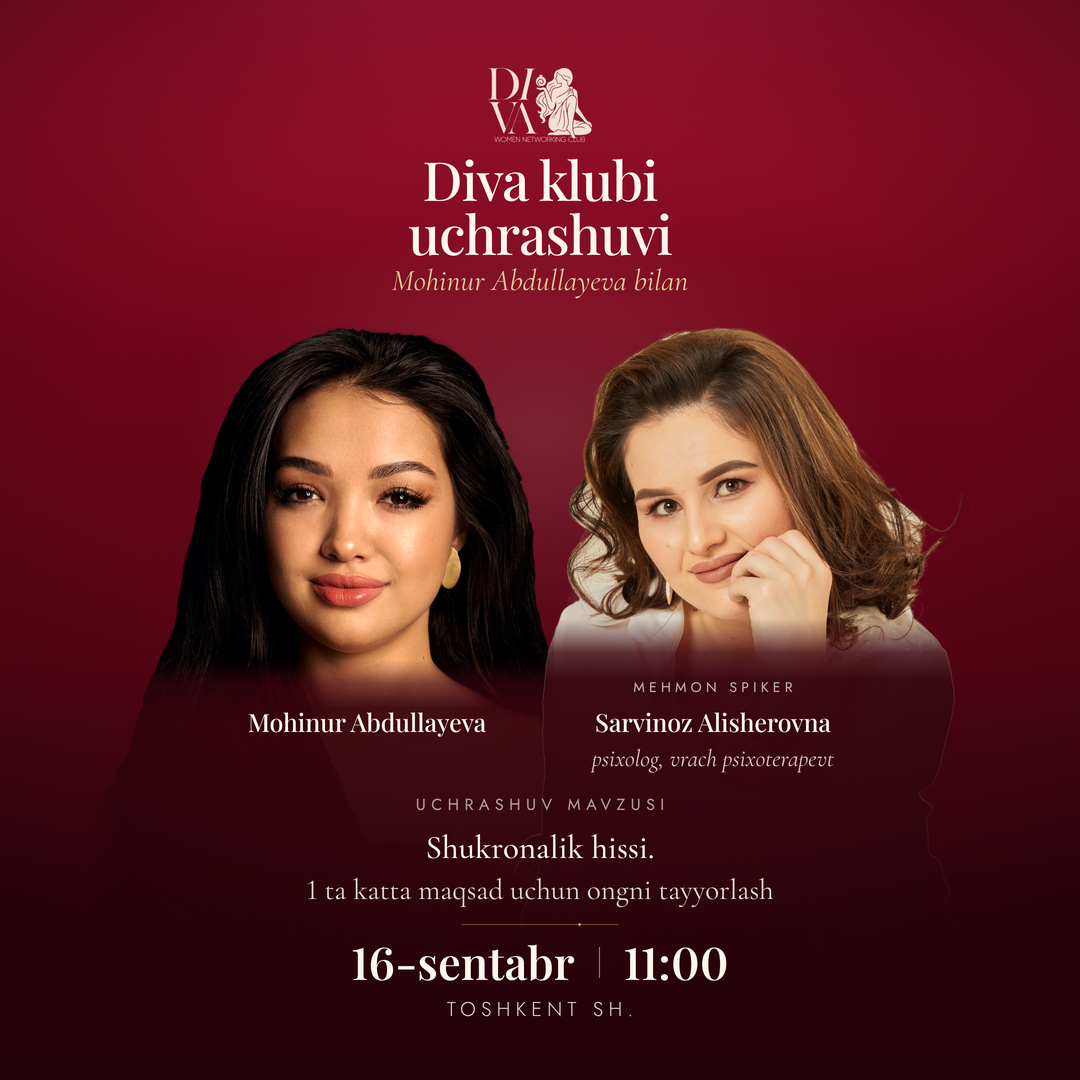
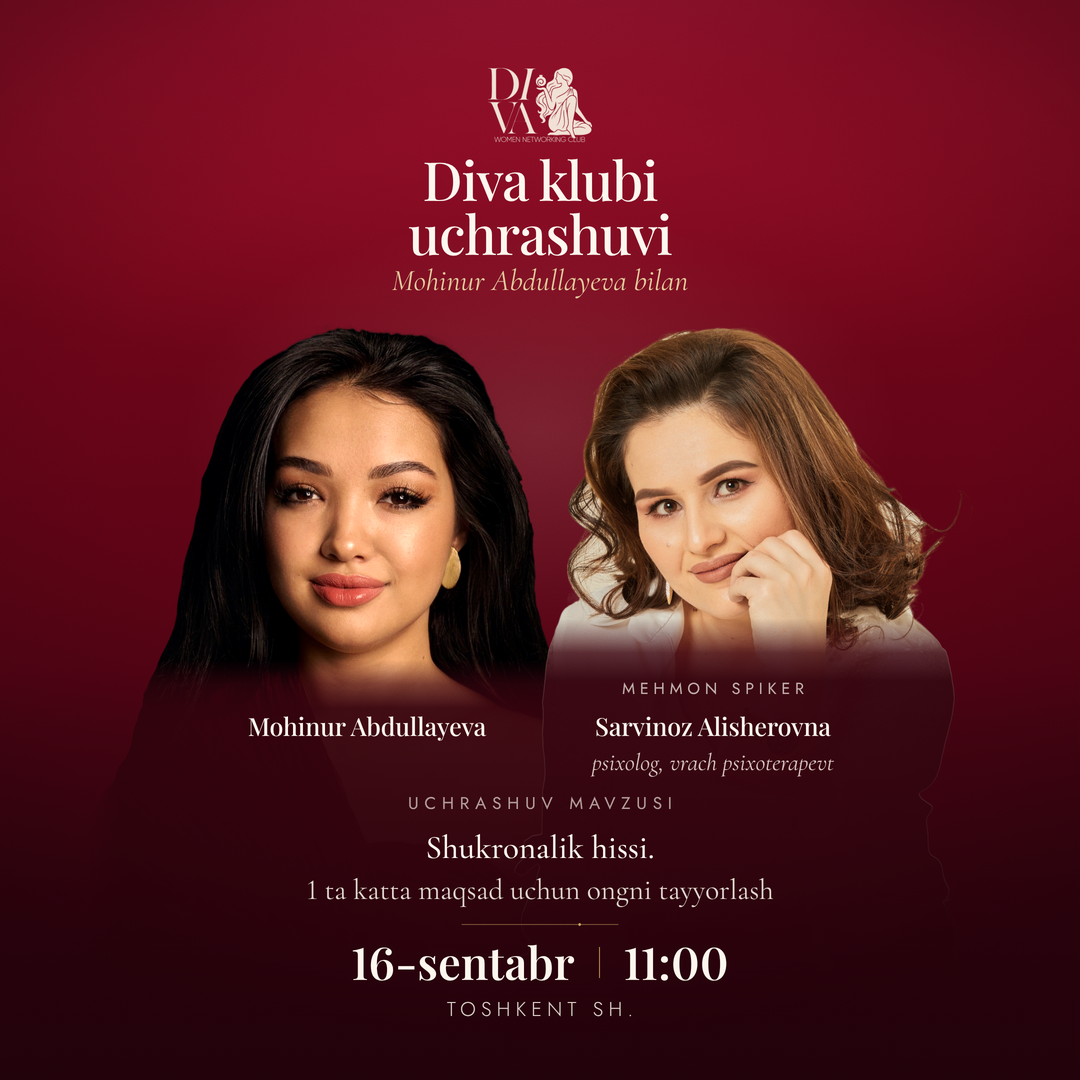
Snapshot in-flight fix work
Claude-Session: https://claude.ai/code/session_01CJcxAKvhDYH9Z96uyo456t

Changed region(s): [[0.5194, 0.6111, 0.7639, 0.7639], [0.2444, 0.6417, 0.4583, 0.7028], [0.3667, 0.7333, 0.4889, 0.7639]]

diff --git a/diva-club-posts/variant-a.html b/diva-club-posts/variant-a.html
@@ -404,8 +404,8 @@ html[data-r="1x1"] .canvas {
   --namesTop: 680px; --capW: 400px; --capOff: 173px;
   --scrimTop: 670px; --scrimOp: .82;
   --fsTitle: 54px; --fsHost: 30px;
-  --fsTag: 14px; --fsName: 25px; --fsRole: 24px;
-  --fsLbl: 16px; --fsTopic: 33px; --fsTopic2: 29px;
+  --fsTag: 16px; --fsName: 25px; --fsRole: 24px;
+  --fsLbl: 17px; --fsTopic: 33px; --fsTopic2: 29px;
   --fsDate: 45px; --fsCity: 20px;
   --markW: 170px; --gapMark: 12px; --gapWhen: 11px; --whenGap: 24px; --gapCity: 8px;
 }
